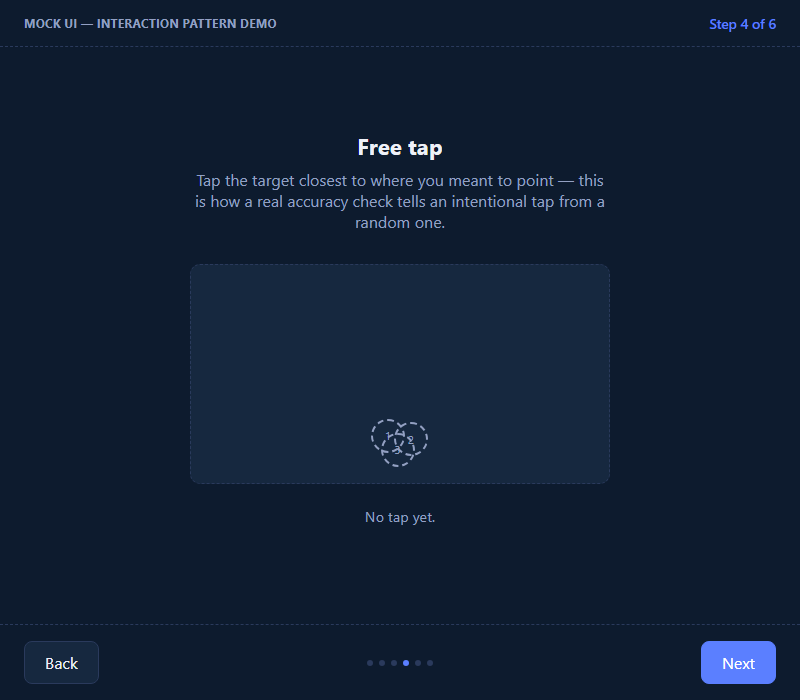
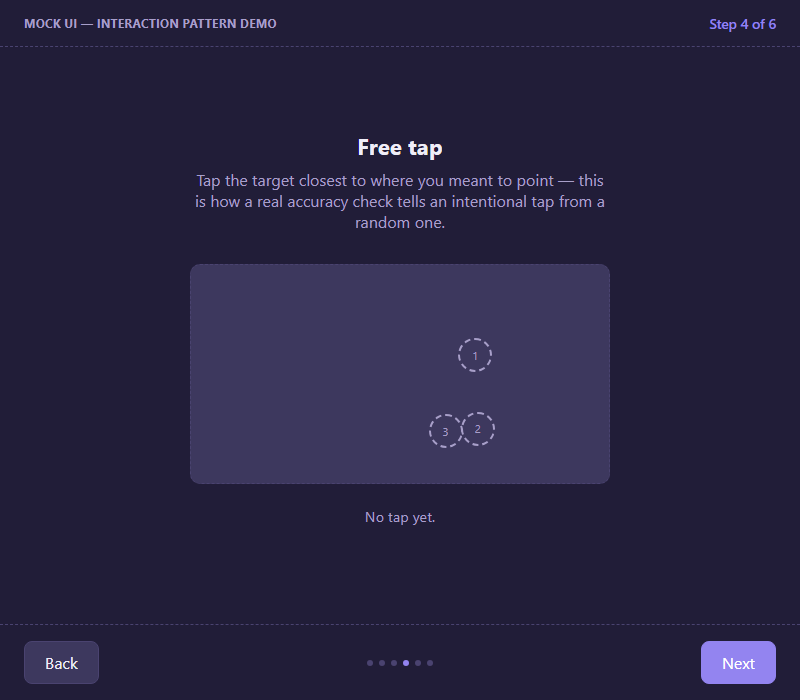
Shift palette toward #3d385e
Rebuilds the dark theme around #3d385e as the surface color (cards,
panels, inputs), with a darker background behind it and a violet
accent, replacing the previous blue-navy palette.

diff --git a/code/mock/style.css b/code/mock/style.css
@@ -1,13 +1,13 @@
 :root {
-  --bg: #0d1b2e;
-  --surface: #16283f;
-  --surface-2: #1d3350;
-  --text: #eef1f8;
-  --muted: #93a0c2;
-  --accent: #5b7fff;
+  --bg: #211d38;
+  --surface: #3d385e;
+  --surface-2: #4a4470;
+  --text: #f0eef8;
+  --muted: #a89fc9;
+  --accent: #9384f0;
   --accent-contrast: #ffffff;
-  --border: #2a3a5c;
-  --danger: #ff6b6b;
+  --border: #4a4370;
+  --danger: #ff6b8a;
   --radius: 10px;
 }
 
